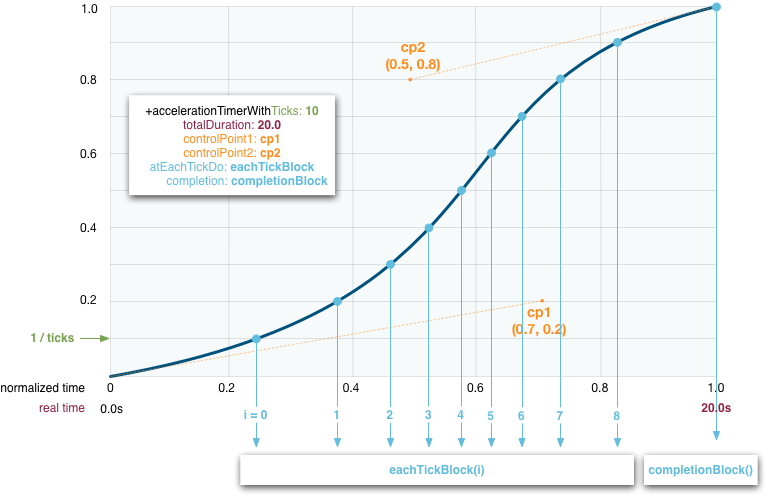
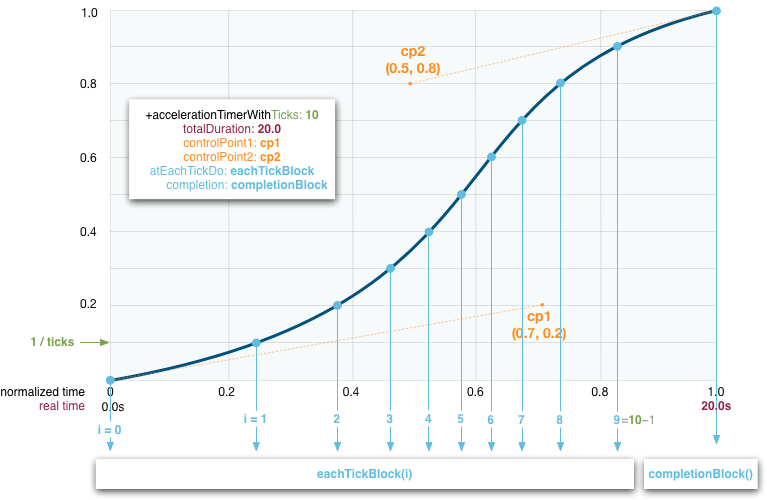
Fixed indices that were off by one - now uses the correct acceleration curve.
This also fixed index-out-of-bounds exceptions that could occur in certain cases.

diff --git a/Component/CPAccelerationTimer.m b/Component/CPAccelerationTimer.m
@@ -42,8 +42,8 @@
 		self.tickBlock = eachTickBlock;
 		self.completionBlock = theCompletionBlock;
 		self.absoluteTickTimings = [CPBezierTimings timingsForTicks:tickCount cp1:cp1 cp2:cp2];
-		NSAssert([self.absoluteTickTimings count] == self.numberOfTicks,
-				 @"Must have calculated as many tick delays as there are ticks");
+		NSAssert([self.absoluteTickTimings count] == self.numberOfTicks -1,
+				 @"Tick delays are the delays between two subsequent ticks, i.e. there should be one delay less than there are ticks");
 	}
 	return self;
 }
@@ -80,8 +80,10 @@
 		
 		NSTimeInterval nextTickTiming = (tickIndex == self.numberOfTicks-1
 										 ? 1.0
-										 : [[self.absoluteTickTimings objectAtIndex:tickIndex+1] doubleValue]);
-		NSTimeInterval currentTickTiming = [[self.absoluteTickTimings objectAtIndex:tickIndex] doubleValue];
+										 : [[self.absoluteTickTimings objectAtIndex:tickIndex] doubleValue]);
+		NSTimeInterval currentTickTiming = (tickIndex == 0
+											? 0.0
+											: [[self.absoluteTickTimings objectAtIndex:tickIndex-1] doubleValue]);
 		NSTimeInterval currentTickDuration = (nextTickTiming - currentTickTiming);
 		NSTimeInterval nextTickDelay = self.totalDuration * currentTickDuration;
 		[self performSelector:@selector(runTick:)

diff --git a/Component/CPBezierTimings.m b/Component/CPBezierTimings.m
@@ -35,7 +35,8 @@
 	NSTimeInterval thisMilestoneTime = 0.0;
 	NSTimeInterval thisIntervalFromLast = 0.0;
 	float x = 0.0;
-	while (x <= 1.0) {
+	float step = 0.001;
+	while (x < 1.0-step) {
 		float y = cubicBezier(x, bezierCP1.x, bezierCP1.y, bezierCP2.x, bezierCP2.y);
 		NSUInteger milestonesPassed = (NSUInteger) (y * tickCount);
 		BOOL crossedAMilestone = (milestonesPassed > lastMultiples);
@@ -43,9 +44,10 @@
 			thisIntervalFromLast = x - lastMilestoneTime;
 			lastMilestoneTime = thisMilestoneTime;
 			[self.absoluteDelays addObject:[NSNumber numberWithDouble:thisIntervalFromLast]];
+//			NSLog(@"%.4f - %@ (%d->%d)", thisIntervalFromLast, [@"" stringByPaddingToLength:milestonesPassed withString:@"x" startingAtIndex:0], milestonesPassed-1, milestonesPassed);
 		}
 		lastMultiples = milestonesPassed;
-		x += 0.001;
+		x += step;
 	}
 	return [NSArray arrayWithArray:self.absoluteDelays];
 }

diff --git a/Component/CPAccelerationTimer.h b/Component/CPAccelerationTimer.h
@@ -7,7 +7,7 @@
 typedef void (^CPAccelerationTimerTick)(NSUInteger);
 typedef void (^CPAccelerationTimerCompletion)();
 
-/**	CPAccelerationTimer calls the `eachTickBlock` a total of `tickCount`-1 times,
+/**	CPAccelerationTimer calls the `eachTickBlock` a total of `tickCount` times,
 	spread out over `duration` seconds, with the delays between calls - i.e. the
 	acceleration/deceleration - determined by the Bezier curve defined by `cp1`
 	and `cp2`. Finally, the `completionBlock` is called.
